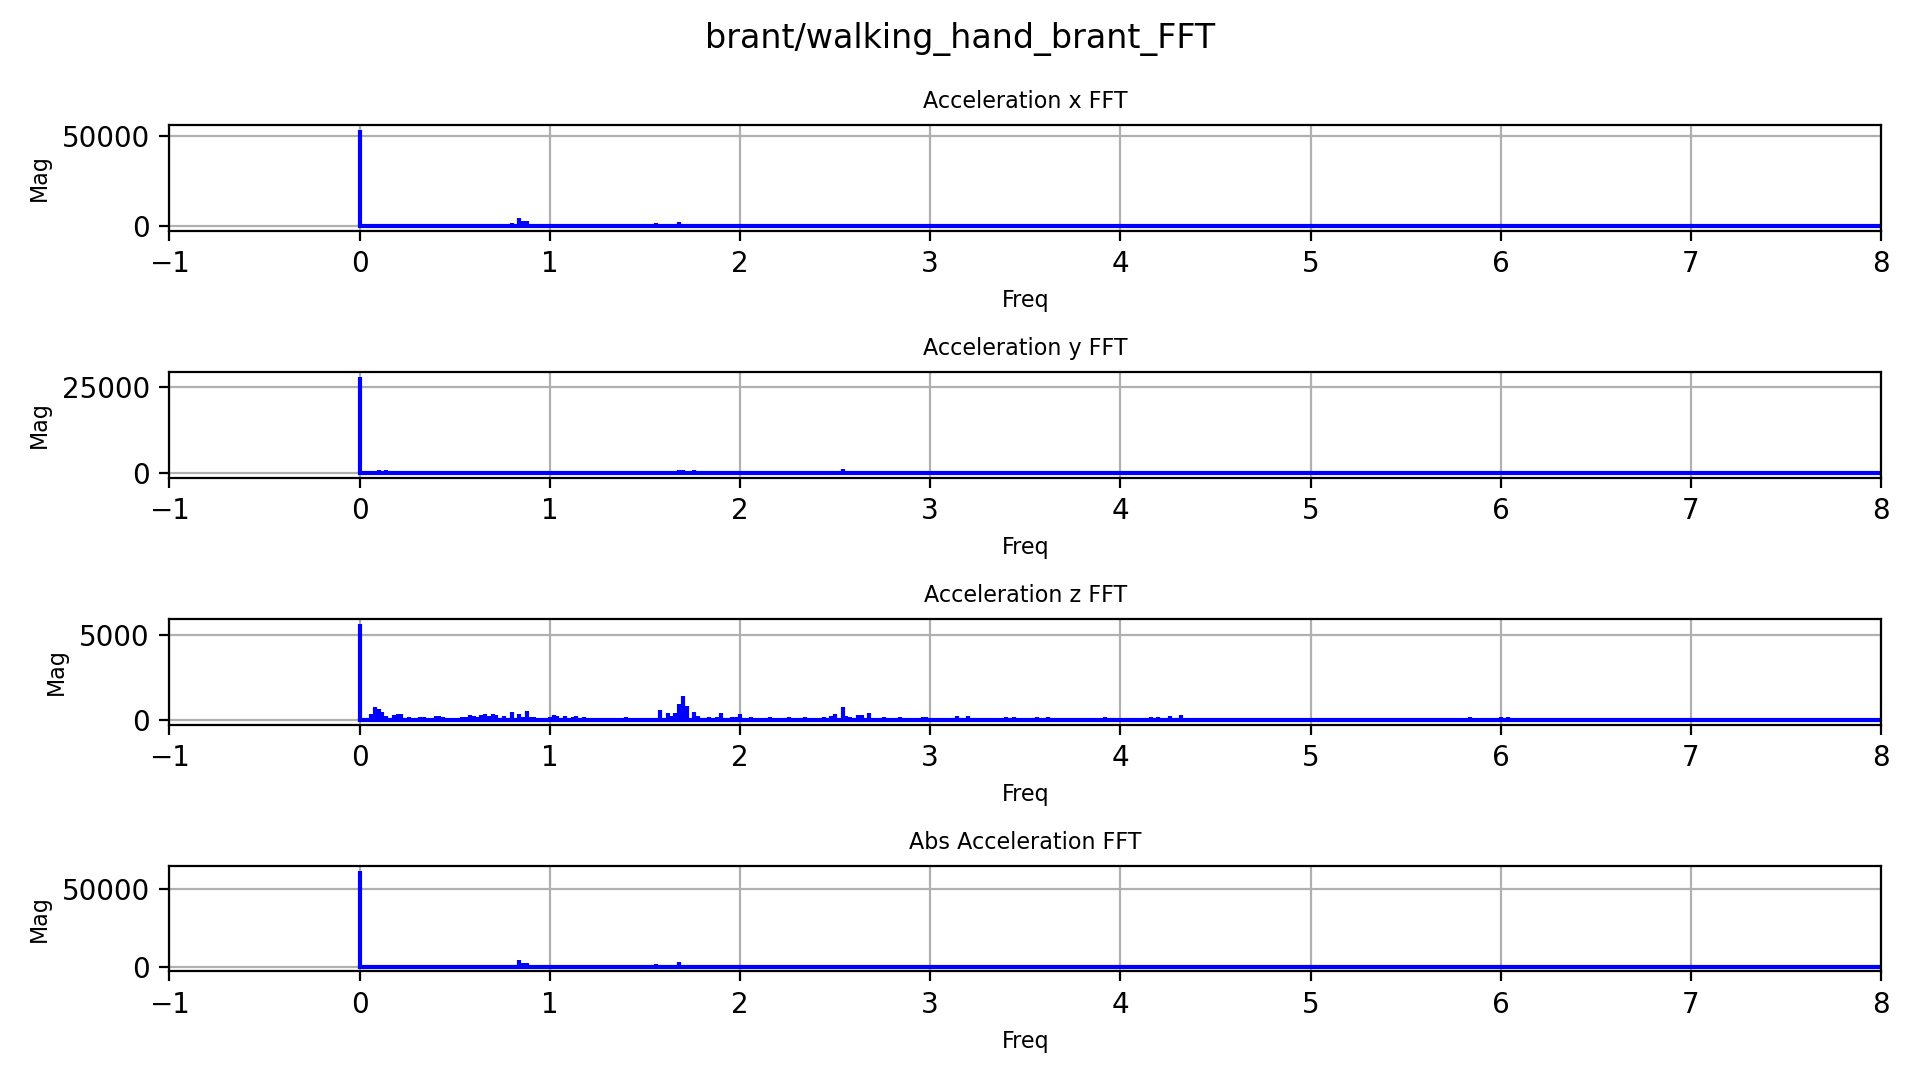
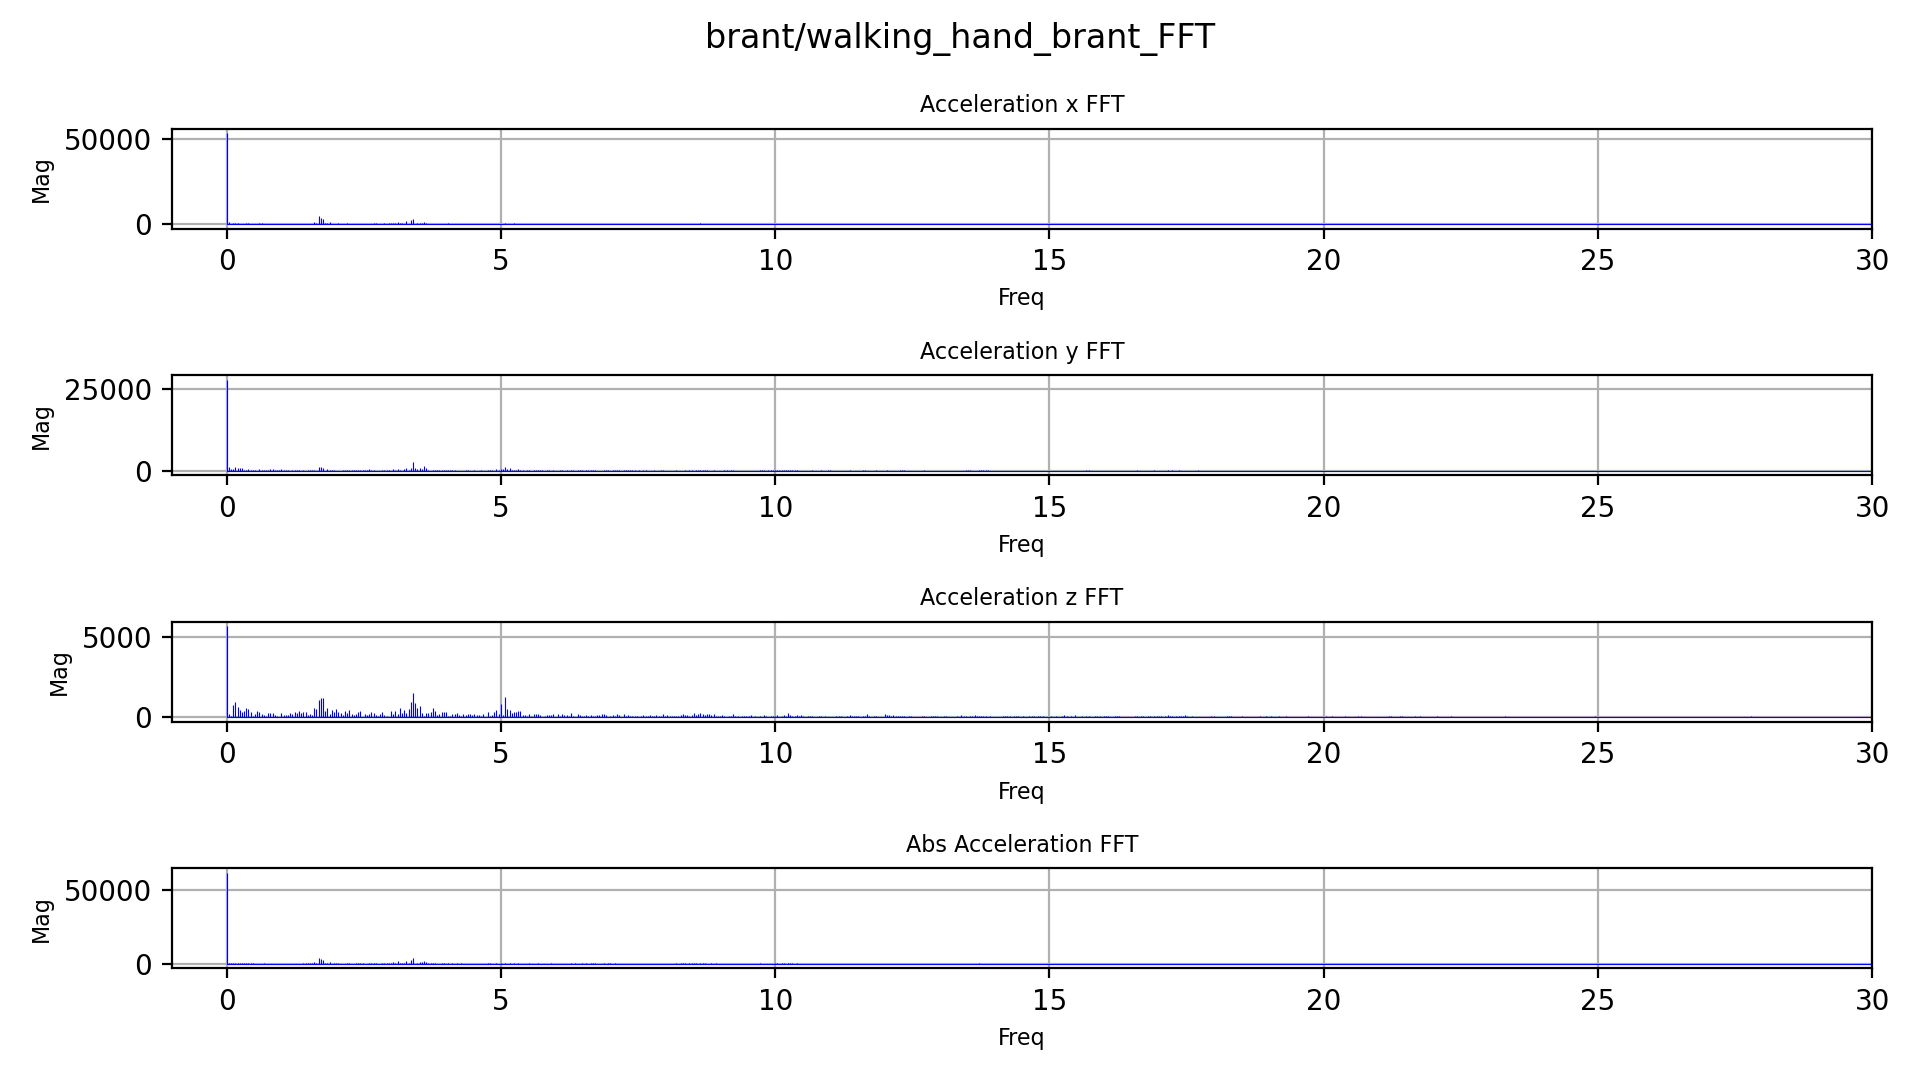
High Res FFT Graphs

diff --git a/main.py b/main.py
@@ -295,36 +295,34 @@ def accel_fft_plots(root_dir, save=None):
             name2 = name.replace(".csv", "_FFT")
             print("Dataset! " + "/" + name2)
 
+            fig = plt.figure(name2, figsize=(9.6, 5.4), dpi=200)
+            fig.suptitle(name2)
             data = np.array(root_dir[name])[:, 1:5]
 
-            size = data.shape[0]//2 + 1
-            new_data = np.zeros((size, data.shape[1]))
-
-            for i in range(data.shape[1]):
-                new_data[:, i] = np.fft.rfft(data[:, i])
-
-            fig = plt.figure(name2, figsize=(9.6, 5.4))
-            fig.suptitle(name2)
-            fig.canvas.manager.set_window_title(name2)
+            sampling_rate = 100
+            N = data.shape[0]//2 + 1
+            n = np.arange(N)
+            T = N/sampling_rate
+            freq = n / T
 
             titles = ("Acceleration x FFT", "Acceleration y FFT", "Acceleration z FFT",
                       "Abs Acceleration FFT")
 
-            s_rate = 100
-            t = 5000/s_rate
-            n = np.arange(size)
-            freq = n/t
-
             for ii, ti in enumerate(titles):
+                fft_data = np.fft.rfft(data[:, ii])
                 ax = fig.add_subplot(len(titles), 1, ii + 1)
-                ax.stem(freq, np.abs(new_data[0:, ii]), 'b', markerfmt=" ", basefmt="-b")
+                stem_plot = plt.stem(freq, np.abs(fft_data),  'b', markerfmt=" ", basefmt="-b")
+                stem_plot[0].set_linewidth(0.4)
+                stem_plot[1].set_linewidth(0.4)
+                stem_plot[2].set_linewidth(0.4)
+                ax.add_container(stem_plot)
                 ax.grid(visible=True)
                 ax.set_title(ti, fontsize=8)
                 ax.set_xlabel('Freq', fontsize=8)
                 ax.set_ylabel('Mag', fontsize=8)
-                ax.set_xlim((-1, 8))
+                ax.set_xlim((-1, 30))
 
-            fig.tight_layout()
+            fig.set_layout_engine(layout='tight')
             figs.update({name2: fig})
 
             if save is not None:
@@ -339,7 +337,7 @@ def accel_fft_plots(root_dir, save=None):
                 temp = save / name.replace(".csv", "_FFT.png")
                 plt.savefig(str(temp).replace("\\", "/"), dpi=200)
 
-    print("Returned figures: ", list(figs))
+    print("Returned FFT figures: ", list(figs))
     return figs
 
 
@@ -351,67 +349,65 @@ def accel_fft_plots(root_dir, save=None):
 # the directory tree with a test_dir folder and sub-folders for each group and a figures
 # folder or similar for saving figure images
 
-p = pth.Path("C:\\Users\\Chris\\PycharmProjects\\ELEC390_Project\\test_dir")
-p2 = pth.Path("C:\\Users\\Chris\\PycharmProjects\\ELEC390_Project\\Figures")
+p = pth.Path("C:\\Users\\Chris\\PycharmProjects\\Phyphox-390\\test_dir")
+p2 = pth.Path("C:\\Users\\Chris\\PycharmProjects\\Phyphox-390\\Figures")
 
 # accel_figures = dict()
-# accel_FFT_figures = dict()
+accel_FFT_figures = dict()
 # accel_scatter_figures = dict()
 #
-# create_hdf5(p)
-with h5py.File('./hd5_data.h5', 'r') as hdf:
-    print(list_nodes_t(hdf, 'd'))
+#create_hdf5(p)
 
-    d1 = hdf.get('brant/walking_back_pocket_brant.csv')
-    d1 = np.array(d1)
-
-    # print(d1)
-    print(np.transpose(d1[:, 1]))
-    d2 = np.convolve(d1[:, 1], np.ones(10)/10, mode='same')
-
-    fig1 = plt.figure()
-    ax1 = fig1.add_subplot(4,1, 1)
-    ax1.plot(d1[:, 0], d1[:, 1], linewidth=0.4)
-
-    d1_fft = np.fft.rfft(d1[:, 1])
-
-    size = d1[:, 1].shape[0] // 2 + 1
-    s_rate = 100
-    t = 5000 / s_rate
-    n = np.arange(size)
-    freq = n / t
-
-    ax2 = fig1.add_subplot(4, 1, 2)
-    ax2.stem(freq, np.abs(d1_fft), 'b', markerfmt=" ", basefmt="-b")
-    ax2.set_xlim((6, 12))
-    ax2.set_ylim((0, 2000))
-
-    ax3 = fig1.add_subplot(4, 1, 3)
-    ax3.plot(d1[:, 0], d2, linewidth=0.4)
-
-    d2_fft = np.fft.rfft(d2)
-
-    size = d2.shape[0] // 2 + 1
-    s_rate = 100
-    t = d2.shape[0] / s_rate
-    n = np.arange(size)
-    freq = n / t
-
-    ax4 = fig1.add_subplot(4, 1, 4)
-    ax4.stem(freq, np.abs(d2_fft), 'b', markerfmt=" ", basefmt="-b")
-    ax4.set_xlim((6, 12))
-    ax4.set_ylim((0, 2000))
-    plt.show()
-
-    # fig, ax = plt.subplots(1, 1, linewidth=0.4)
-    # ax.plot(np.transpose)
 # with h5py.File('./hd5_data.h5', 'r') as hdf:
+#     print(list_nodes_t(hdf, 'd'))
 #
+#     d1 = hdf.get('brant/walking_back_pocket_brant.csv')
+#     d1 = np.array(d1)
+#
+#     # print(d1)
+#     print(np.transpose(d1[:, 1]))
+#     d2 = np.convolve(d1[:, 1], np.ones(10)/10, mode='same')
+#
+#     fig1 = plt.figure()
+#     ax1 = fig1.add_subplot(4,1, 1)
+#     ax1.plot(d1[:, 0], d1[:, 1], linewidth=0.4)
+#
+#     d1_fft = np.fft.rfft(d1[:, 1])
+#
+#     size = d1[:, 1].shape[0] // 2 + 1
+#     s_rate = 100
+#     t = 5000 / s_rate
+#     n = np.arange(size)
+#     freq = n / t
+#
+#     ax2 = fig1.add_subplot(4, 1, 2)
+#     ax2.stem(freq, np.abs(d1_fft), 'b', markerfmt=" ", basefmt="-b")
+#     ax2.set_xlim((6, 12))
+#     ax2.set_ylim((0, 2000))
+#
+#     ax3 = fig1.add_subplot(4, 1, 3)
+#     ax3.plot(d1[:, 0], d2, linewidth=0.4)
+#
+#     d2_fft = np.fft.rfft(d2)
+#
+#     size = d2.shape[0] // 2 + 1
+#     s_rate = 100
+#     t = d2.shape[0] / s_rate
+#     n = np.arange(size)
+#     freq = n / t
+#
+#     ax4 = fig1.add_subplot(4, 1, 4)
+#     ax4.stem(freq, np.abs(d2_fft), 'b', markerfmt=" ", basefmt="-b")
+#     ax4.set_xlim((6, 12))
+#     ax4.set_ylim((0, 2000))
+#     plt.show()
+
+with h5py.File('./hd5_data.h5', 'r') as hdf:
     # accel_figures.update(create_accel_plots(hdf, p2))
     # plt.close('all')
     # accel_scatter_figures.update(accel_scatter_plots(hdf, p2))
     # plt.close('all')
-    # accel_FFT_figures.update(accel_fft_plots(hdf, p2))
+    accel_FFT_figures.update(accel_fft_plots(hdf, p2))
 
 
 
